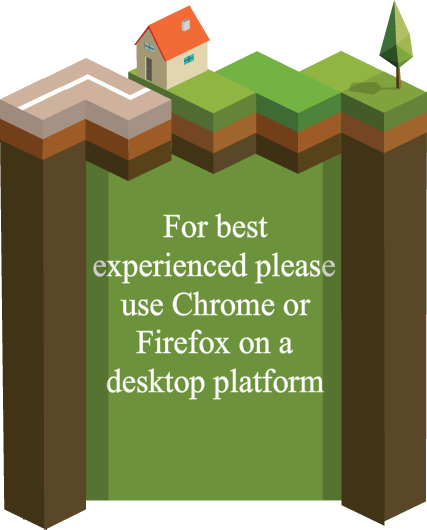
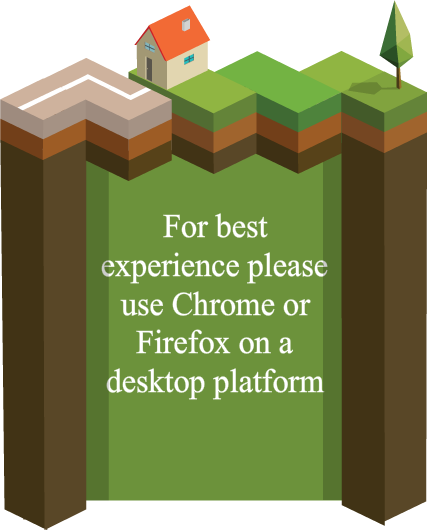
Fixed spelling issues

diff --git a/404.html b/404.html
@@ -54,7 +54,7 @@
 </head>
 <body>
     <h1>Page Not Found</h1>
-    <p>Sorry, but the page you were trying to view does not exist.</p>
+    <p>Sorry, but the page you were trying to view does not exist, yet!</p>
 </body>
 </html>
 <!-- IE needs 512+ bytes: http://blogs.msdn.com/b/ieinternals/archive/2010/08/19/http-error-pages-in-internet-explorer.aspx -->
